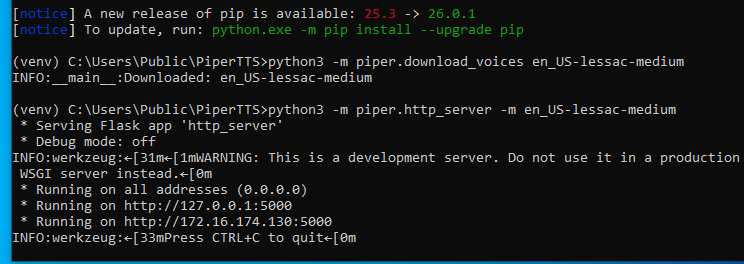
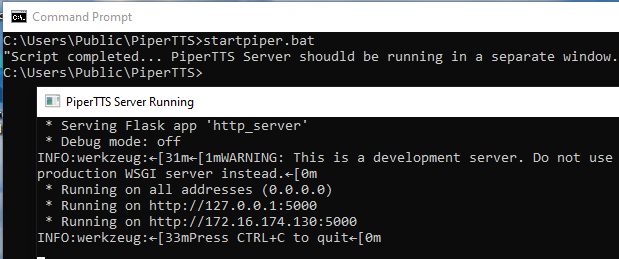
Documentation Updated

diff --git a/docs/Local_Deployment_Running.md b/docs/Local_Deployment_Running.md
@@ -1,57 +1,111 @@
-### TWC Local on the 8's IntelliSTAR Emulator - Local Deployment Instructions
+### TWC Local on the 8's IntelliSTAR Emulator - Local Deployment Configuration and Operation
 
-A webserver is required to host the IntelliSTAR emulator website. While there are many webservers available, for local deployment and testing these instructions will cover using Node.JS with Express on either Windows or Linux.
+> [!IMPORTANT]
+> This guide assumes that the IntelliSTAR emulator has been installed on a local computer or virtual machine along with a local installation of the PiperTTS server.
 
-#### Local Deployment on Windows 10 (Windows 11 should work similarly)
+#### Default Configuration
+The configuration file is named common_configuration.js and is located in the root of the emulator. As downloaded from the repository the following default configuration is assumed:
++ Local Installation running under NodeJS Express
+    + Default url is localhost on port 3000, or the computer's IP address on port 3000.
++ Local PiperTTS server running on the same computer under Python.
+    + Default url is localhost on port 5000.
 
-1. Install a recent version of NodeJS from the official website:
-    [NodeJS Download](https://nodejs.org/en/download)
-    ![Options](./NodeJSWin_Install1.png)
-    Use either the powershell download instructions or simply download a pre-built msi installer for Windows.
-2. Complete the Node.JS setup. The installer defaults are fine for this installation.
-3. Create an installation folder to hold the IntelliSTAR emulator files.
-   ![InstallFolder](./NodeJSWin_InstFolder.png)
+This default configuration should be sufficient if the software is deployed in this manner.\
+If the PiperTTS server will be installed on a different computer, then the configuration file will have to be edited to reflect the exact url and port need to reach the PiperTTS server.
 
-This can be placed in any writable drive location, but a folder located under C:\ProgramData\ is suggested. If using a sub-folder of C:\ProgramData, it may be beneficial to enable viewing hidden files and folders. 
+### Starting the Servers
+> [!IMPORTANT]
+>If both the IntelliSTAR emulator and the PiperTTS servers are installed on the same computer, be sure to start the PiperTTS server **FIRST** and verify it's responsiveness prior to starting the IntelliSTAR emulator. 
 
-Here is how to do that:
-3a. Open a file explorer window. 
-3b. Click on the File Menu in the upper left.
-3c. Select the "Change folder and search options" item from the menu.
-3d. In the Folder Options window that appears click on the View Tab.
-3e. Select the option under "Hidden files and folders" that reads: "Show hidden files, folders, and drives.
-3f. Click on the Ok button to save the settings and dismiss the Folder Options window.
-Hidden folders, such as C:\ProgramData will now be visible in the Windows File Explorer.
-![InstallFolder](./WinFolderOptions.png)
+#### Starting the PiperTTS Server
+1. Open a command prompt (Windows) or a terminal (Linux), and change the current directory to the PiperTTS installation folder.
+1. Type the following command to start the server:
 
-4. Download and extract the IntelliSTAR Emulator files from the Github repository.
-    Assuming Git is not installed, use either the "Download ZIP" option under "<> Code" OR select the latest release in the Releases Panel.
-    ![IntelliSTAR_DL](./IntelliSTAR_DL.png)
+    Windows:
+    ```
+    startpiper.bat
+    ```
+    Linux:
+    ```
+    ./startpiper.sh
+    ```
 
-5. With either method, a zip file will be placed in the download folder.
-    5a. Open the download folder.
-    5b. Right click on the zip file that was just downloaded.
-    5c. Choose "Extract All..." from the context menu.
-    5d. In the "Select a Destination and Extract Files" either type in the path created in Step #3 above or use the browse button to graphically navigate to this path.
-    5e. Click on Extract to complete the file extraction.
+    The PiperTTS server should load and report the url(s) on which it can be reached:
 
-6. Install Node.JS Express into the Emulator Project Directory.
-    5a. Open up a command prompt. (WinKey+R, then type cmd and press Enter)
-    5b. Navigate to the folder where the IntelliSTAR emulator files were extracted.
-    Here is how to accomplish that:
-   
-   1. Click on the file explorer window that has the extracted IntelliSTAR files. (This will be in a sub-folder, look for the index.html and the StartServer.bat files.)
-   2. Right click on the address bar that shows the path to the files.
-   3. From the context menu, choose "Copy Address" or "Copy Address as Text".
-   4. Click back in the command prompt window.
-   5. Type CD, followed by a single space, then hit Ctrl+v to paste the full path which should appear on the command line.
-   6. Finally press enter to navigate to the path.
-      5c. Install NodeJS Express here by typing the following command: 
-      npm install express
-      
-At this point the IntelliSTAR emulator is installed without local voice narration. Voice narration may be available from public sources (or not) but ideally a local PiperTTS server should also be installed to provide these services locally.
+    Windows:\
+    <img title="" src="./Piper_Running_Win.png" alt="PiperTTS_Running" width="600">
 
-Next Steps..
-Continue with Installation of a PiperTTS Server on the same computer (reccomended):
-OR
-Runing the IntelliSTAR Emulator without local voice support:
+    Linux:\
+    <img title="" src="./Piper_Running_Linux.png" alt="PiperTTS_Running" width="600">
+
+##### Testing PiperTTS Server Responsiveness
+
+1. Test basic server responsiveness by attempting to get the installed list of voices in the web browser on the local computer:
+
+   1. On the same computer, launch any web browser.
+   1. In the address bar, type in the following local web address:
+
+      ```
+      http://localhost:5000/voices
+      ```
+      If the PiperTTS has been installed and is running it should respond with the installed voice list and other voice data, similar to the following:
+      >![alt text](Piper_voice_Response.png)
+
+#### Starting the IntelliSTAR Emulator Server
+
+1. If the PiperTTS server is installed locally, start the PiperTTS server first and verify its responsiveness.
+
+1. Open a command prompt (Windows) or a terminal (Linux), and change the current directory to the IntelliSTAR Emulator installation folder.
+1. Type the following command to start the server:
+
+    Windows:
+    ```
+    startserver.bat
+    ```
+    Linux:
+    ```
+    ./startserver.sh
+    ```
+
+    The IntelliSTAR Emulator server should load and report the following:
+    + Which PiperTTS voice server is available.
+    + The url(s) on which the IntelliSTAR Emulator can be reached.
+
+    Windows:\
+    <img title="" src="./Piper_Running_Win.png" alt="PiperTTS_Running" width="600">
+
+    Linux:\
+    <img title="" src="./IntelliSTAR_Run_Linux.png" alt="IntelliSTAR_Running" width="600">
+
+### Congratulations, the IntelliSTAR Emulator is Running!
+
+Next Steps..\
+[Operating the IntelliSTAR Emulator]()
+
+### Special Cases
+#### Running the IntelliSTAR Emulator Without Local PiperTTS Voice Support
+
+If it is not possible to have a local PiperTTS server running (for example when using a shared hosting service), the IntelliSTAR Emulator can still be hosted and run with the following limitations:
++ If a public or client accessible PiperTTS server is available, in some cases it can be used for voice narration.
++ If no PiperTTS server is available, the IntelliSTAR Emulator can be used with voice narration disabled. All other features will continue to operate.
+>[!NOTE]
+>It may also be possible to host a PiperTTS on a Python focused hosting service, such as pythonanywhere.com.\
+For more information regarding this option, see the link at the bottom of this section to a Youtube tutorial where this option is explored.
+
+Starting the IntelliSTAR Emulator on a server without local PiperTTS voice support is identical to starting it with voice support, except there is no PiperTTS server to start first.
+
+[Starting the IntelliSTAR Emulator]()
+
+When the IntelliSTAR Emulator is started in this manner it will attempt to find an alternate PiperTTS voice server in the common_configuration.js file. If an alternate server is available then it will be used instead, otherwise it will report that "Server Side Piper TTS Server not enabled.
+
+The server startup window will report which type of PiperTTS server  (if any) was found. In this example there was no PiperTTS server available:
+
+<img title="" src="./IntelliSTAR_Run_Linux_NoTTS.png" alt="IntelliSTAR_Running" width="600">
+
+>[!NOTE]
+>Even if the IntelliSTAR Emulator server does not find a suitable PiperTTS voice server to use, it is still possible that the web client can directly access a PiperTTS server.\
+If this scenario exists, voice narration will still be available in the client.\
+The web client will report if it was able to fall back to a client side accessible PiperTTS server when a server side PiperTTS server is unavailable.
+
+Next Steps..\
+[Operating the IntelliSTAR Emulator]()

diff --git a/docs/IntelliSTAR_Operation.md b/docs/IntelliSTAR_Operation.md
@@ -1,0 +1,108 @@
+### TWC Local on the 8's IntelliSTAR Emulator - Using the Website
+
+Most modern browsers on most modern systems can operate the IntelliSTAR emulator. So far this emulator has been tested with Firefox on Windows and Linux, Chrome on Windows and Linux, Safari on Macintosh and iPad.
+
+#### Usage:
+
+1. Open a web browser on a computer that has access to the ImtelliSTAR Emulator url.
+1. Type the url into the browser's address bar.\
+Example, using Firefox running in Linux with a locally accessible server:
+ <img title="" src="./IntelliSTAR_Client_Linux.png" alt="IntelliSTAR_Running" width="600">
+
+1. A Dialog will appear:
+<img title="" src="./IntelliSTAR_Client_MainUI.png" alt="IntelliSTAR_Running" width="600">
+
+    #### Information on each item in the dialog:
+
+    + **"Enter Zip or Airport ICAO Code"**\
+    Enter any valid 5 digit US zip code or any valid 4 character Airport ICAO code worldwide. The Emulator will retrieve the current and forecasted weather from the area around the entered location.
+        >[!NOTE]
+        >Do not press the ENTER key after making the entry initially.\
+        Instead use the mouse or the TAB key on the keyboard for navigation.\
+        Pressing ENTER after making an entry in this box is a shortcut to run the emulator with the location entered.
+    
+    + **"Include Watch and Warning Alerts"**\
+    If this option is checked, watches and warnings issued by the national weather service will be displayed (and narrated if enabled) prior to the main current conditions and forecast pages are displayed.\
+    As these watches and warnings can be quite lengthy, this option allows them to be bypassed entirely.
+
+    + **"Units"**\
+    Choose the desired units group for weather data measurements. The 1st parameter is temperature F=Fahrenheit, C=Celsius. The 2nd parameter is wind speed mph=miles per hour, kmph=kilometers per hour.
+
+    + **"Custom Greeting"**\
+    On the initial weather Welcome/Greeting page, a personal message can be displayed (and narrated). The default message is set in the common_configuration.js file but a phrase or sentence entered here will override the default.
+
+    + **"Enable background music"**\
+    If this option is checked, the Local on the 8's smooth jazz background music will play throughout the forecast.
+
+    + **"Enable Workaround for Apple Mobile Devices"**\
+    If this option is checked, the background music will be silenced completely when the voice narration is being spoken. This is necessary for Apple devices because they do not support the emulator adjusting the volume levels during playback.\
+    If this option is unchecked, the default, background music will duck (become quieter) while voice narration is taking place and then resume normal volume after the narration has finished.
+        >[!NOTE]
+        >If this option is left unchecked on an Apple mobile device and narration and backgroud music are both enabled, the music and narration will both be played at full volume making the narration difficult to hear.
+    
+    #### Voice Options
+
+    + **"Enable voice narrations"**\
+    If this option is checked, and a PiperTTS voice server is available, many elements will be narrated as well as displayed. These elements include the greeting message, any active alerts, the current conditions, the local forecast, and each page heading.
+
+    + **"Select Voice"**\
+    If voice narrations are enabled and a PiperTTS voice server is reachable, the list of voices available on the server will populate this drop-down list. Select from the available voices to hear the narration read in the chosen voice.
+
+    + **"Enable narration of Alerts"**\
+    If this option is checked, and a PiperTTS voice server is available, and there are active alerts, the alert text will be narrated while it is being displayed. The emulator will pause each alert page for as long as necessary to completely read the alert text.\
+    If this option is disabled and there are active alerts, the alerts will only be displayed and not narrated. The display time is fixed at eight seconds per alert page (which is typically much shorter than the time required for the spoken narration).
+
+    #### Operation Buttons
+
+    + **"Save as Default"**\
+    When this button is pressed, the current values of all the options and settings in the dialog are saved to the browser persistent storage under the current user's profile.\
+    Each time the same user opens the same url in the same browser, the saved settings will be automatically restored, the dialog will be populated to reflect these saved settings, and the emulator will use these saved settings if the emulator is run using a shortcut or url parameter location.
+
+
+    + **"Run"**\
+    When this button is pressed and a valid US 5-digit zip coder or 4 character airport ICAO code was entered, the emulator will obtain the current weather data for the location specified and start the Local on the 8's presentation.
+
+1. After the location has been specified and any options set as described above, press the **"Run"** button to start the Local on the 8's presentation.
+
+#### Shortuts
++ In UI mode (with only the base url entered in the address bar), simply type the desired 5-digit US zip code or 4 character airport ICAO code and then press the ENTER key. The emulator will obtain the current weather data for the location specified and start the Local on the 8's presentation.
+
++ **Direct Operation Mode**\
+    Appending:
+    ```
+    ?zip=nnnnn
+    (where nnnnn is a valid 5-digit US zip code)
+    ```
+    OR
+    ```
+    ?airport=cccc
+    (where cccc is a 4 character airport ICAO code)
+    ```
+    to the end of the base url will bypass the UI dialog and start the Local on the 8's presentation for the specified zip or airport code.
+
+    #### For example
+    US Zip Code:
+
+    <img title="" src="./IntelliSTAR_Client_DirectZip.png" alt="IntelliSTAR_Running" width="600">
+
+    International Airport ICAO Code:
+
+    <img title="" src="./IntelliSTAR_Client_DirectAirport.png" alt="IntelliSTAR_Running" width="600">
+
+
+#### Troubleshooting Voice Narration at the Client
+
+When invoked in UI mode (without any shortcuts), information regarding the ability of the web client to communicate with a PiperTTS voice server will be shown at the bottom of the window:
+
+<img title="" src="./IntelliSTAR_Client_PiperStatus.png" alt="IntelliSTAR_Running">
+
+
+Possible color-coded voice server status messages and their meaning:
++ ${\textsf{\color{green}Primary Voice Server Active}}$\
+The primary voice server (order #1) in the global_configuration.js file was contacted and is responsive.
++ ${\textsf{\color{Goldenrod}CAUTION! Secondary Voice Server Active (Order n)}}$\
+The primary voice server (order #1) in the global_configuration.js file is non-responsive, but a secondary or fallback server was contacted and is responsive.
++ ${\textsf{\color{red}No PiperTTS voice server available.}}$\
+No voice servers are configured or none of the servers listed in the global_configuration.js file are responsive. Voice narration will be unavailable.
+
+For help resolving the yellow caution or red no voice server available messages, refer to the [Advanced Configuration and Troubleshooting Guide]().

diff --git a/docs/Local_Deployment_Instructions_Win_Detailed.md b/docs/Local_Deployment_Instructions_Win_Detailed.md
@@ -102,7 +102,7 @@ Performing this tasks involves installing a recent version of the Python languag
 
       >By way of an example, if the Piper TTS server is to be located in C:\Users\Public\PiperTTS, then after the steps above the command prompt should appear as in the following:
 
-      ><img src="./Piper_Default_Win.png" title="" alt="Python_DL" data-align="center">
+      ><img src="./Piper_Default_Win.png" title="" alt="Python_DL">
 
    1. Create a python virtual environment for the server using the following command:
 
@@ -143,11 +143,15 @@ Performing this tasks involves installing a recent version of the Python languag
    ```
    Other voices are available and can be downloaded and added to the server later. This initial voice is sufficient for confirming the installation and basic operation of the PiperTTS server.
 
+1. Copy the startpiper.bat file from the repository scrips folder into the PiperTTS installation folder.
+   >[!NOTE]
+   >If a local IntelliSTAR emulator has been set up, the scripts folder will be located within that installation directory. Otherwise the batch file can be obtained from the repository directly. 
+
 1. Start the PiperTTS Web Server using the following command:
    ```
-   python3 -m piper.http_server -m en_US-lessac-medium
+   startpiper.bat
    ```
-   The python web server should start and you should see it running in the command window:
+   The python web server should start and you should see it running in a spawned command window:
 
    ![alt text](Piper_Running_Win.png)
 
@@ -161,6 +165,11 @@ Performing this tasks involves installing a recent version of the Python languag
       ```
       If the PiperTTS has been installed and is running it should respond with the installed voice list and other voice data, similar to the following:
       >![alt text](Piper_voice_Response.png)
+
+#### Stopping the PiperTTS Server
+1. Select the window titled "PiperTTS Server Running"
+1. Press Ctrl+C on the keyboard to gracefully end the server process.\
+The window closes and PiperTTS python process ends. 
 
 ### Congratulations, the Local Deployment Installation is Complete!
 

diff --git a/docs/Local_Deployment_Instructions.md b/docs/Local_Deployment_Instructions.md
@@ -8,5 +8,8 @@ A webserver is required to host the IntelliSTAR emulator website. While there ar
 #### Linux Mint/Ubuntu Platform:
 [Linux Mint/Ubuntu Local Installation Instructions](Local_Deployment_Instructions_Linux_Detailed.md)
 
-### After Installation, Configuration and Operation (Windows & Linux)
-[Configuration and Operation Guide](Local_Deployment_Running.md)
+### After Installation, Starting the Servers (Windows & Linux)
+[Startup Guide](Local_Deployment_Running.md)
+
+### Using the IntelliSTAR Emulator
+[Operation Guide](Local_Deployment_Running.md)

diff --git a/docs/Local_Deployment_Instructions_Linux_Detailed.md b/docs/Local_Deployment_Instructions_Linux_Detailed.md
@@ -37,7 +37,7 @@ A webserver is required to host the IntelliSTAR emulator website. While there ar
     1. Right click on the zip file after it has been moved.
     1. Choose "Extract Here" from the context menu.
     1. After the contents have been extracted, the zip file can be deleted.
-<br>
+
 1. Install Node.JS Express into the Emulator Project Directory.
    1. Navigate to the folder where the IntelliSTAR emulator files were extracted. They will moost likely be in a sub-folder after the extraction. (Look for the index.html and the StartServer.bat files.)
    1. Right click on a blank area of the directory and choose "Open in Terminal". A terminal window with the emulator folder as the current directory should open on the desktop.